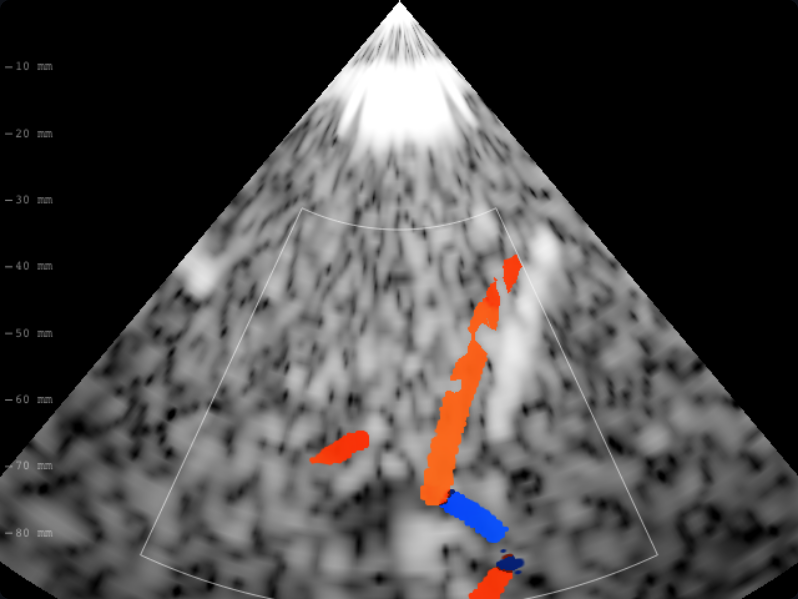
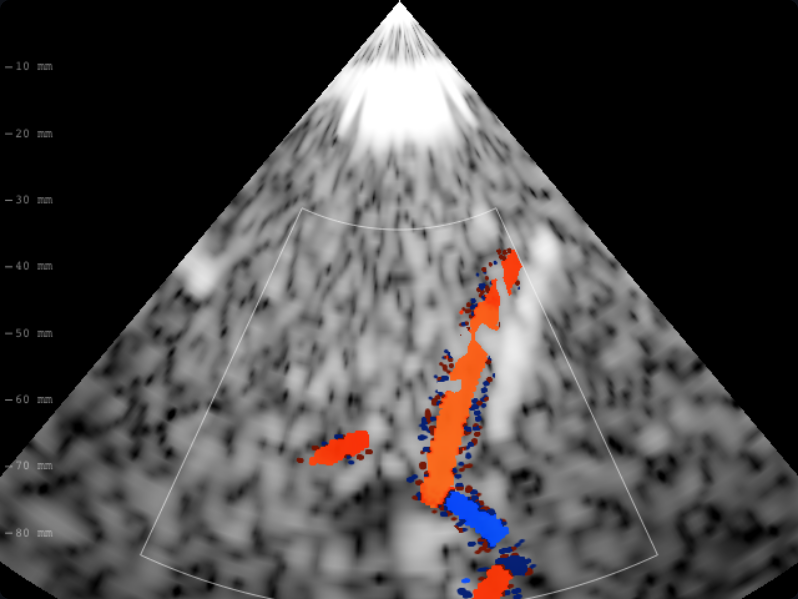
Rechaza ruido puro sin inflarlo por pérdida y diversifica semillas color

Changed region(s): [[0.5113, 0.571, 0.6917, 1.0], [0.5714, 0.4207, 0.6617, 0.571], [0.3609, 0.7212, 0.4812, 0.7813]]

diff --git a/tests/validation/colorNoise.test.ts b/tests/validation/colorNoise.test.ts
@@ -1,16 +1,18 @@
-import { expect, it } from 'vitest';
+import { SeededRandom } from '../../src/core/random';
+import { DOPPLER } from '../../src/doppler/params';
+import { expect, it, vi } from 'vitest';
 import { buildReferenceCase } from '../../src/domain/referenceCase';
 import { defaultTemporalSettings } from '../../src/domain/settings';
 import { renderColorDoppler } from '../../src/doppler/color';
 import { buildScan } from '../../src/ultrasound/probe';
 import { temporalPose } from './helpers';
 
-it('una pérdida de transmisión severa degrada coherencia y precisión, sin atenuar el ruido receptor', () => {
+it('la pérdida creciente acaba en señal no disponible, no color de ruido', () => {
   const sim = buildReferenceCase(),
     settings = defaultTemporalSettings(),
     pose = temporalPose(sim, 'der');
-  const render = (loss: number) =>
-    renderColorDoppler(
+  const counts = [0, 40, 60, 80, 100, 120, Infinity].map((loss) => {
+    const g = renderColorDoppler(
       { ...sim.head, attenuationDb: () => loss },
       sim.flow,
       buildScan(pose, 'sector', 64),
@@ -20,20 +22,65 @@ it('una pérdida de transmisión severa degrada coherencia y precisión, sin ate
       0.2,
       settings.colorBox,
     );
-  const high = render(0),
-    low = render(120);
-  let count = 0,
-    varianceHigh = 0,
-    varianceLow = 0,
-    velocityError = 0;
-  for (let i = 0; i < high.vel.length; i++)
-    if (Number.isFinite(high.vel[i]) && Number.isFinite(low.vel[i])) {
-      count++;
-      varianceHigh += high.variance[i]!;
-      varianceLow += low.variance[i]!;
-      velocityError += Math.abs(high.vel[i]! - low.vel[i]!);
+    return g.vel.filter(Number.isFinite).length;
+  });
+  console.info('celdas disponibles por pérdida', counts);
+  expect(counts[0]).toBeGreaterThan(10);
+  expect(counts[3]).toBeLessThan(counts[0]!);
+  expect(counts[4]).toBe(0);
+  expect(counts[5]).toBe(0);
+  expect(counts[6]).toBe(0);
+});
+
+it('sin eco: cota empírica de falsas detecciones sobre 49152 celdas y ganancia alta', () => {
+  const sim = buildReferenceCase(),
+    settings = { ...defaultTemporalSettings(), dopplerGainDb: 30 },
+    pose = temporalPose(sim, 'der');
+  const scene = {
+    ...sim.head,
+    vessels: [
+      {
+        ...sim.head.vessels[0]!,
+        radiusMm: 10000,
+        aabb: {
+          min: [-10000, -10000, -10000] as [number, number, number],
+          max: [10000, 10000, 10000] as [number, number, number],
+        },
+      },
+    ],
+    attenuationDb: () => Infinity,
+  };
+  let accepted = 0,
+    total = 0;
+  const firstNoiseSamples = new Set<number>();
+  const gaussian = SeededRandom.prototype.gaussian;
+  let gaussianCalls = 0;
+  const spy = vi.spyOn(SeededRandom.prototype, 'gaussian').mockImplementation(function (this: SeededRandom) {
+    const value = gaussian.call(this);
+    if (gaussianCalls++ % (2 * DOPPLER.params.colorEnsemble.value) === 0) firstNoiseSamples.add(value);
+    return value;
+  });
+  try {
+    for (const seed of [17, 103, 601, 20261012]) {
+      const g = renderColorDoppler(
+        scene,
+        sim.flow,
+        buildScan(pose, 'sector', 64),
+        pose,
+        settings,
+        seed,
+        0.2,
+        settings.colorBox,
+      );
+      accepted += g.vel.filter(Number.isFinite).length;
+      total += g.vel.length;
+      for (let i = 0; i < g.vel.length; i++) if (!Number.isFinite(g.vel[i])) expect(g.pow[i]).toBe(0);
     }
-  expect(count).toBeGreaterThan(10);
-  expect(varianceLow / count).toBeGreaterThan(varianceHigh / count + 0.1);
-  expect(velocityError / count).toBeGreaterThan(5);
+  } finally {
+    spy.mockRestore();
+  }
+  expect(firstNoiseSamples.size).toBeGreaterThan(total * 0.99);
+  console.info('falsos colores sin eco', { accepted, total, rate: accepted / total });
+  expect(total).toBe(49152);
+  expect(accepted / total).toBeLessThanOrEqual(1e-4);
 });

diff --git a/src/doppler/color.ts b/src/doppler/color.ts
@@ -61,7 +61,7 @@ function cellScatterers(
   hemo: HemodynamicState,
   primaryVessel: Vessel,
 ): ColorScatterer[] {
-  const rng = new SeededRandom((seed ^ hash3(zi, ci, 0, 0x4b534149)) >>> 0);
+  const rng = new SeededRandom((seed ^ Math.floor(hash3(zi, ci, 0, 0x4b534149) * 4294967296)) >>> 0);
   const result: ColorScatterer[] = [];
   for (let j = 0; j < DOPPLER.params.colorScatterers.value; j += 1) {
     const da = rng.range(-axialHalf, axialHalf);
@@ -171,6 +171,16 @@ export function renderColorDoppler(
       paco2MmHg: FISIOLOGIA.params.paco2MmHg.value,
       icpMmHg: FISIOLOGIA.params.icpMmHg.value,
     });
+  // Media compleja sustraída: 2*(N-1) grados de libertad de ruido gaussiano.
+  // Cota superior de cola chi-cuadrado (Hsu/Kakade/Zhang, 2012, Prop. 1).
+  const noise = DOPPLER.params.ruidoElectronico.value;
+  const noiseDof = 2 * (ensemble - 1);
+  const noiseMeanPower = noiseDof * noise ** 2;
+  const logFalseAlarm = -Math.log(DOPPLER.params.colorFalseAlarmProbability.value);
+  const noiseRejectPower =
+    noise ** 2 * (noiseDof + 2 * Math.sqrt(noiseDof * logFalseAlarm) + 2 * logFalseAlarm);
+  // Referencia del receptor, independiente del paciente y la transmisión.
+  const displayReferencePower = noiseMeanPower * 10 ** (DOPPLER.params.colorReferenceSnrDb.value / 10);
   const outputAmplitude = 10 ** (settings.outputPowerDb / 20);
   const wallVelocityCms = (SOUND_SPEED_MS * settings.wallFilterHz * 100) / (2 * f0Hz);
   const elevation = elevationDirection(pose);
@@ -219,7 +229,9 @@ export function renderColorDoppler(
       );
       const re = new Float32Array(ensemble);
       const im = new Float32Array(ensemble);
-      const noiseRng = new SeededRandom((seed ^ hash3(zi, ci, ensemble, 0x4e4f4953)) >>> 0);
+      const noiseRng = new SeededRandom(
+        (seed ^ Math.floor(hash3(zi, ci, ensemble, 0x4e4f4953) * 4294967296)) >>> 0,
+      );
       const attenuationKey = zi * Math.ceil(cols / 4) + Math.floor(ci / 4);
       let attDb = attenuationCache.get(attenuationKey);
       if (attDb === undefined) {
@@ -238,7 +250,6 @@ export function renderColorDoppler(
           re[k] = re[k]! + outputAmplitude * scatterer.amplitude * transmission * Math.cos(phase);
           im[k] = im[k]! + outputAmplitude * scatterer.amplitude * transmission * Math.sin(phase);
         }
-        const noise = DOPPLER.params.ruidoElectronico.value;
         re[k] = re[k]! + noiseRng.gaussian() * noise;
         im[k] = im[k]! + noiseRng.gaussian() * noise;
       }
@@ -247,11 +258,14 @@ export function renderColorDoppler(
       const vCms = kasaiVelocityCms(estimate.r1Re, estimate.r1Im, settings.prfHz, f0Hz, SOUND_SPEED_MS);
       const varNorm = kasaiVariance(estimate.r0, estimate.r1Re, estimate.r1Im);
       const gainLinear = Math.pow(10, settings.dopplerGainDb / 10);
-      const bloodReferencePower =
-        ensemble * scatterers.length * DOPPLER.params.amplitudSangre.value ** 2 * transmission ** 2;
-      const power = Math.min(1, (gainLinear * estimate.r0) / Math.max(Number.EPSILON, bloodReferencePower));
+      const receivedSignalPower = Math.max(0, estimate.r0 - noiseMeanPower);
+      const power = Math.min(
+        1,
+        (gainLinear * receivedSignalPower) / Math.max(Number.EPSILON, displayReferencePower),
+      );
       const idx = zi * cols + ci;
       if (
+        estimate.r0 > noiseRejectPower &&
         power >= DOPPLER.params.colorPowerThreshold.value &&
         varNorm <= DOPPLER.params.colorVarianceMax.value &&
         Math.abs(vCms) >= wallVelocityCms

diff --git a/src/doppler/params.ts b/src/doppler/params.ts
@@ -333,13 +333,29 @@ export const DOPPLER = defineParameters('doppler', {
     sources: ['aium-tcd-guia', 'evans-mcdicken-doppler-2000'],
     note: 'Dispersores virtuales por celda de color.',
   },
+  colorFalseAlarmProbability: {
+    value: 1e-4,
+    unit: 'probabilidad/celda',
+    range: [1e-6, 1e-2],
+    evidence: 'estimado',
+    sources: ['plan-simulador-2026'],
+    note: 'Cota elegida de falsa alarma por ruido gaussiano después del filtro de media; no cubre clutter tisular.',
+  },
+  colorReferenceSnrDb: {
+    value: 20,
+    unit: 'dB',
+    range: [10, 40],
+    evidence: 'estimado',
+    sources: ['plan-simulador-2026'],
+    note: 'Referencia fija de presentación color sobre potencia media del ruido receptor; independiente del paciente.',
+  },
   colorPowerThreshold: {
     value: 0.05,
     unit: 'fracción',
     range: [0, 0.1],
     evidence: 'estimado',
     sources: ['plan-simulador-2026'],
-    note: 'Fracción mínima de la potencia esperada para una celda completamente sanguínea, atenuada.',
+    note: 'Fracción mínima de potencia recibida respecto a la referencia fija del receptor color.',
   },
   colorVarianceMax: {
     value: 0.8,

diff --git a/tests/validation/colorGain.test.ts b/tests/validation/colorGain.test.ts
@@ -11,7 +11,7 @@ it('la ganancia cambia potencia y aceptación, sin cambiar velocidad ni varianza
   const settings = defaultTemporalSettings();
   const render = (dopplerGainDb: number) =>
     renderColorDoppler(
-      sim.head,
+      { ...sim.head, attenuationDb: () => 70 },
       sim.flow,
       buildScan(pose, 'sector', 64),
       pose,

diff --git a/docs/B08-RUIDO-COLOR.md b/docs/B08-RUIDO-COLOR.md
@@ -1,33 +1,50 @@
-# B08 · Ruido receptor Doppler color
+# B08 · Señal recibida y ruido receptor Doppler color
 
-Defecto: transmisión multiplicaba señal y ruido y después se dividía potencia
-por transmisión al cuadrado. La atenuación no deterioraba SNR ni estimación de
-velocidad. Mecanismo: generar ruido electrónico después de transmisión, con
-amplitud receptora fija compartida con PW (ruidoElectronico=0,0004). La pérdida sigue afectando al eco y no al receptor.
+Defectos: transmisión multiplicaba ruido; después su cuadrado dividía potencia.
+La pérdida podía conservar una velocidad falsa y llevar ruido puro a brillo
+máximo. El detector separa ahora recepción, detección y presentación:
 
-Invariantes: geometría, PRF, semilla, ganancia, señal sin pérdida, umbrales existentes. Refutación: ante 120 dB de pérdida, varianza y error de
-velocidad no pueden seguir idénticos. La prueba falla antes y pasa después.
-La intensidad del ruido es estimada, sin calibración clínica. El umbral Kasai
-existente permite falsos colores por ruido; no se afirma desaparición de todos
-los píxeles en ventanas imposibles ni sensibilidad diagnóstica validada.
+- Ruido electrónico fijo compartido con PW: sigma=0,0004, escala IQ existente.
+- Después de quitar la media compleja, ruido gaussiano puro tiene 2(N−1)
+  grados de libertad. Se rechaza potencia inferior a la cota superior
+  sigma²[nu+2√(nu·ln(10000))+2ln(10000)]. Probabilidad teórica por celda ≤10⁻⁴.
+- Se resta la potencia media de ruido de R0 para presentación. La referencia
+  de brillo corresponde a SNR 20 dB (parámetro de presentación estimado),
+  nunca dividida por transmisión ni
+  calculada desde anatomía, caudal verdadero o calidad de ventana del paciente.
+- Ganancia escala potencia de presentación; se conservan filtros de velocidad
+  y varianza existentes. La ganancia no convierte ruido rechazado en flujo.
 
-La escala relativa anterior no se reutiliza como absoluta: rompía las pruebas
-de velocidad M1 y signo venoso ocular. Se comparte la escala receptora PW ya
-existente, sin modificar sus valores ni tolerancias. Se elimina el parámetro
-colorNoiseRel obsoleto. Es consistencia interna, no calibración clínica.
+Fuente primaria de la cota: Hsu, Kakade y Zhang, Proposition 1,
+<https://arxiv.org/html/1110.2842v1>. Es una aplicación a la proyección que
+resta la media; no valida clínicamente el ruido estimado del simulador.
 
-La regresión adicional de caché compara potencia, velocidad y varianza con un
-oráculo que recalcula todos los trayectos de pérdida variable por fila. La
-mutación a la clave antigua debe fallar también en la salida, no solo llamadas.
+Refutación: sin eco o con pérdidas crecientes no debe persistir color saturado.
+El fantoma sin eco llena toda la caja, usa cuatro semillas y ganancia +30 dB:
+49152 celdas, cero falsas detecciones observadas. La cota teórica no significa
+cero falsos positivos garantizados. El barrido 0/40/60/80/100/120/infinito dB
+produce 893/840/842/533/0/0/0 celdas disponibles (semilla de referencia).
 
-La regresión de referencia sin caché usa un vaso fantoma que cubre toda la
-caja y pérdida variable por profundidad. Las dos pruebas fallan al restaurar
-la clave antigua y pasan con la clave corregida. Se conserva igualdad exacta
-de los mapas de potencia, velocidad y varianza frente al cálculo sin caché.
+La prueba de ganancia usa una pérdida fija de 70 dB para mantener muestras sin
+saturación con la nueva referencia receptora. Sigue exigiendo ×10 por +10 dB,
+igualdad de velocidades/varianzas comunes y mayor aceptación, sin relajar
+ninguna tolerancia. La caché se contrasta contra un cálculo sin caché sobre un
+vaso fantoma que llena la caja y pérdida variable por fila; restaurar la clave
+antigua falla tanto en consultas como en mapas observables.
 
-Verificación final: `npm run check` completo (331 pruebas), signo ACR/VCR,
-velocidad M1 y flujo docente E2E aprobados. Cambian solo los tres dorados color.
-Captura final real: temporal derecha, 2 MHz, 90 mm, color activado, semilla
-20261012, t=0,4 fijo; nivel receptor compartido con PW.
+Límites: ruido gaussiano conocido y fijo, ensembles cortos y filtro de pared
+que solo resta media. El generador aún limita clutter a vecindades de vasos;
+no se afirma validación de falsos positivos tisulares de todo el campo ni
+sensibilidad clínica. Ningún resultado usa la verdad de flujo como medición.
 
-![Ruido receptor corregido](evidence/b08-ruido/b08-despues.png)
+Verificación final: `npm run check` pasa con 332 pruebas; las 11 E2E pasan.
+Se mantienen velocidad M1 y signo ACR/VCR. Captura real temporal derecha,
+2 MHz, 90 mm, color activado, semilla 20261012 y t=0,4 fijo:
+
+![Detección desde potencia recibida](evidence/b08-ruido/b08-despues.png)
+
+El hash espacial se convierte de [0,1) a uint32 antes del XOR. La fracción
+anterior se truncaba a cero, reutilizando la secuencia entre celdas. El test
+instrumenta las gaussianas generadas por la adquisición y exige >99 % de
+primeras muestras distintas, además de contar falsas detecciones. Dispersores
+y ruido usan sales separadas. No se supone independencia clínica real.

diff --git a/docs/APPROXIMATIONS.md b/docs/APPROXIMATIONS.md
@@ -62,11 +62,12 @@ calibración.
 - **doppler.gateLateralSigmaMinMm**, **doppler.gateElevationSigmaMinMm**, **doppler.gatePulseSigmaMinMm** — mínimos de puerta; calibrar contra el haz del transductor.
 - **doppler.apertureAngleSigmaRad**, **doppler.partialWallMm**, **doppler.bloodSeedRadiusFraction**, **doppler.bloodReseedRadiusFraction**, **doppler.bloodReanchorRadiusFraction** — dispersión angular y reglas de persistencia vascular; calibrar contra SNR y fracción sanguínea observada.
 - **doppler.defaultTemporalGainDb**, **doppler.defaultTemporalDynamicRangeDb**, **doppler.defaultTemporalPersistence** — prescripción temporal de fábrica; calibrar contra protocolos docentes.
-- **doppler.colorEnsemble**, **doppler.colorScatterers**, **doppler.colorNoiseRel**,
+- **doppler.colorEnsemble**, **doppler.colorScatterers**,
   **doppler.colorPowerThreshold**, **doppler.colorVarianceMax** — ensemble IQ
   sintético y umbrales del estimador Kasai; la potencia se expresa como fracción
-  de la referencia de una celda completamente sanguínea y atenuada; se aproximan
-  con AIUM TCD y Evans & McDicken, sin calibración frente a datos IQ clínicos.
+  de una referencia fija del receptor (SNR de presentación estimada). El
+  ensemble y filtro reducido se aproximan con AIUM TCD y Evans & McDicken,
+  sin calibración frente a datos IQ clínicos.
 - **doppler.wallExcursionMm** — `0,05 mm`, excursión sistólica reducida de la
   pared arterial; se usa como aproximación de clutter, no como medición
   individual.
@@ -125,3 +126,10 @@ calibración.
   que limita contenido próximo al límite de Nyquist antes del resampleo.
 - **doppler.beatCoverageMin** — `0,8`, cobertura mínima estimada del intervalo
   RR para que un latido parcial contribuya a las medidas resumidas.
+
+- **doppler.colorReferenceSnrDb** — referencia de presentación de 20 dB sobre
+  potencia media de ruido receptor; calibración visual pendiente con equipo
+  y fantoma físicos, sin dependencia de anatomía ni transmisión del paciente.
+- **doppler.colorFalseAlarmProbability** — cota elegida de 10⁻⁴ por celda para
+  ruido gaussiano puro mediante desigualdad chi-cuadrado; validar en fantomas
+  reales y modelar clutter no gaussiano antes de extrapolarla clínicamente.

diff --git a/docs/DECISIONS.md b/docs/DECISIONS.md
@@ -974,9 +974,11 @@ El muestreo lateral usa milímetros y una base perpendicular al haz local.
 Se regenera el dorado sectorial para reflejar el volumen corregido;
 la modalidad lineal permanece invariante (docs/B07-VOLUMEN-COLOR.md).
 
-## DEC-69 · Ruido color independiente de transmisión
+## DEC-69 · Recepción y detección color separadas de transmisión
 
-El ruido receptor se suma después de atenuar el eco. Se regeneran los dorados
-color afectados por la SNR corregida, conservando umbrales y usando el nivel
-receptor PW existente (0,0004) en lugar de la escala relativa antigua.
-Contrato y límites de falsas detecciones: docs/B08-RUIDO-COLOR.md.
+El ruido receptor usa el nivel PW existente (0,0004). Se rechaza ruido mediante
+una cota chi-cuadrado por celda (falsa alarma <=1e-4); presentación usa potencia
+recibida menos media de ruido y una referencia fija de SNR 20 dB, estimada.
+No se divide por transmisión. Se conservan umbrales de varianza y velocidad.
+Se regeneran solo dorados color. Contrato, fuente primaria y límites de clutter:
+docs/B08-RUIDO-COLOR.md. No es calibración clínica externa.

diff --git a/docs/INDEX.md b/docs/INDEX.md
@@ -124,6 +124,6 @@
 | -------------------- | ---------: |
 | `anatomia-ojo`       |         40 |
 | `anatomia-cabeza`    |         73 |
-| `doppler`            |         47 |
+| `doppler`            |         49 |
 | `fisiologia`         |         36 |
 | `fisica-ultrasonido` |         42 |
